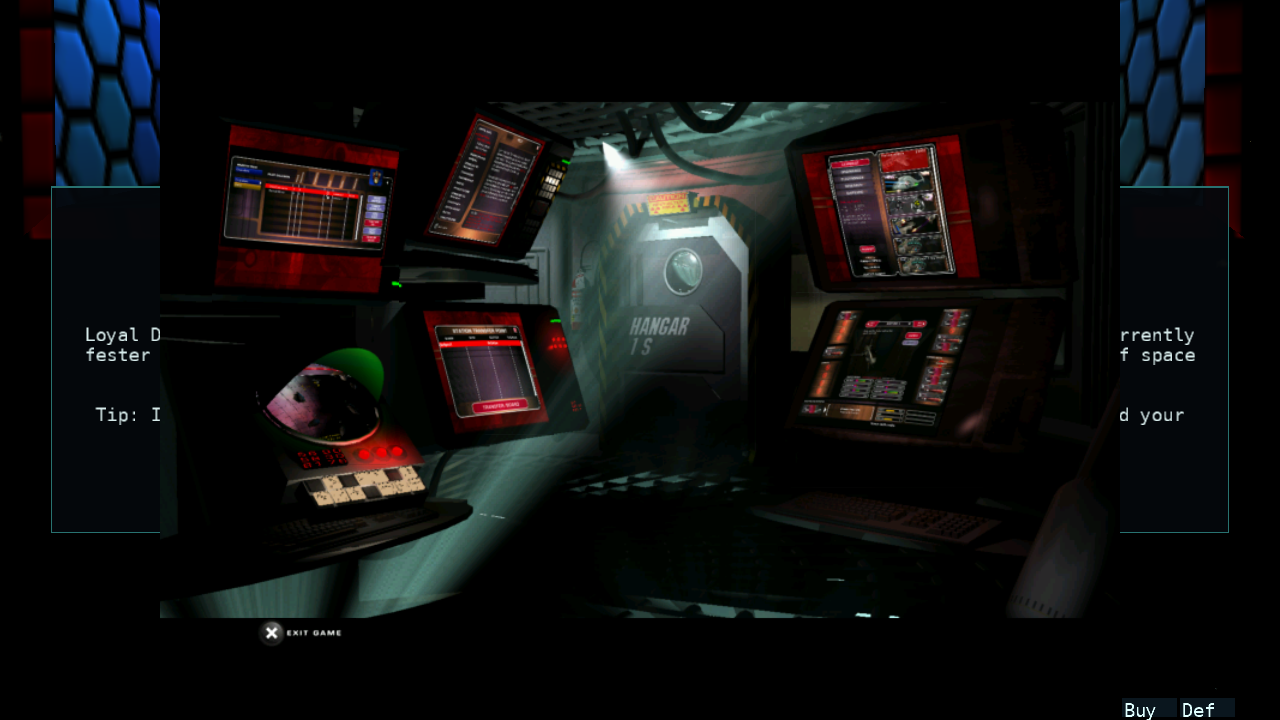
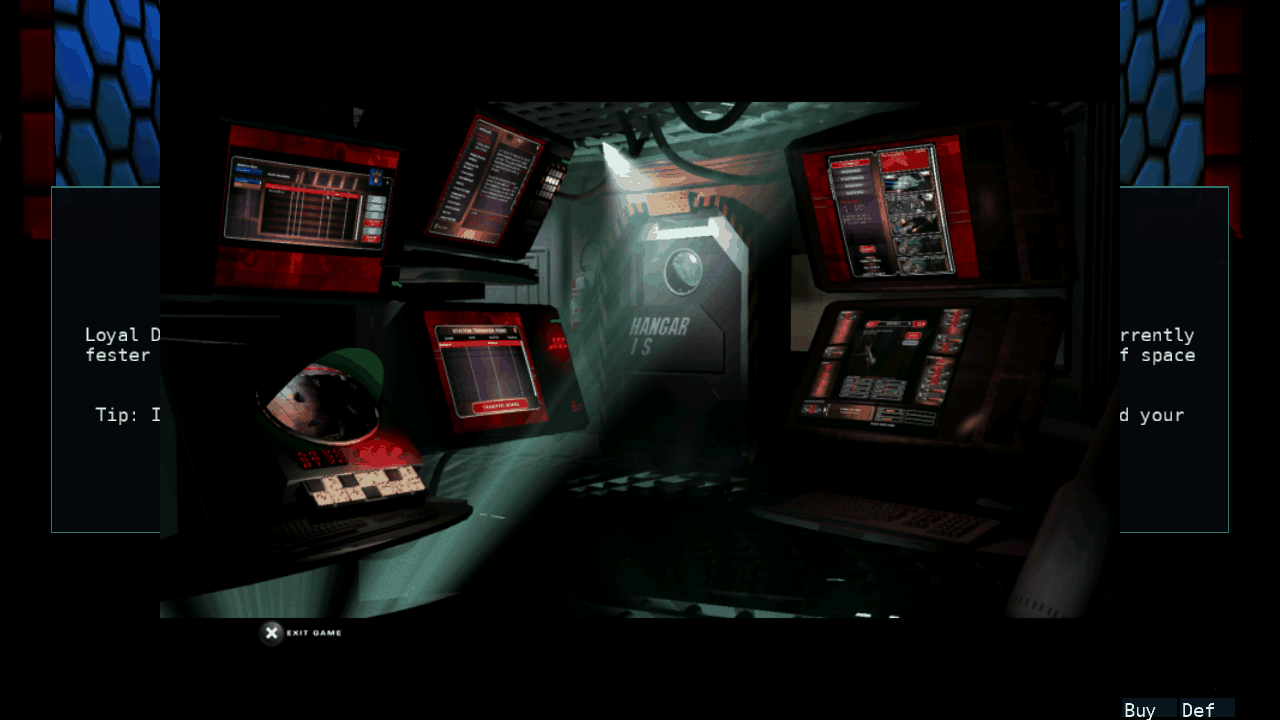
P996 review: merged master (P993/P994), hangar captures quantised (1.5 → 0.57 MB), review notes (budget deviation, pod-keeps-parts follow-up)

diff --git a/docs/reports/LIFEPOD_RESPAWN_P996.md b/docs/reports/LIFEPOD_RESPAWN_P996.md
@@ -217,7 +217,7 @@ restored a real hull with parts (`proof-*.json` next to the PNGs).
 the launched hull (`15`).
 
 The four PNGs are **new media**: they need Domingo's review before the push (`ALLOW_MEDIA=1` for
-`scripts/publish-guard.sh`). Total asset size 1.5 MB (< the 2 MB per-task cap).
+`scripts/publish-guard.sh`). Total asset size 0.57 MB (Claude review: the two hangar captures were quantised to 256 colours, 677/654 KB → 175/176 KB).
 
 The "CURRENT SHIP hull: #33" pane listing the dead fighter's parts is the pre-existing §5 finding (the port does not
 terminate a killed ship's parts the way native's loot loop does); the restored *pending* loadout below it is the
@@ -287,3 +287,17 @@ plays it back through `ShopModel.RestoreSavedLoadout`, including native's succes
 `TryToBuyParts` fill for an upgraded hull and its free-default fallback. The result is the rig's loop replaced by
 native's outcome: a pod death leaves the player berthed, the hangar shows the ship he last flew, and launching it
 carries no oxygen clock at all.
+
+## Claude review (2026-11-11)
+
+* Native citations re-grepped (`shipIGC.cpp:1408`, `:360-363`; `shipIGC.h:989-1020`, `:457-459`; `appmsg.cpp:2022-2023`;
+  `clintlib.h:1815-1820`, `:1876-1886`): accurate.
+* Rebased on master d0734dfa (P993/P994): one append conflict in `docs/TEST_FLAKES.md` (both ledgers kept); build 0/0;
+  the P996 + lifepod/rescue/P279/P699/P977 set 3× alone on the merged tree: Core 96/0/0, ClientCore 9/0/0,
+  MonoGame 8/0/0 each run.
+* Hangar captures quantised (1.5 MB → 0.57 MB of assets).
+* Known small deviation, not changed: `ShopModel.RestoreSavedLoadout` checks the budget against the successor hull's
+  price and does not budget-check the cloned parts; native checks the saved hull's price (`clintlib.h:1815`) and clones
+  parts within the remaining budget. The server's funds gate still decides the purchase.
+* Follow-up (from §5): the port keeps the dead ship's parts on the pod (native terminates them in the kill loot loop,
+  `FedSrv.CPP:11691-11702`); visible as the pod's "CURRENT SHIP" list in the loadout capture.
